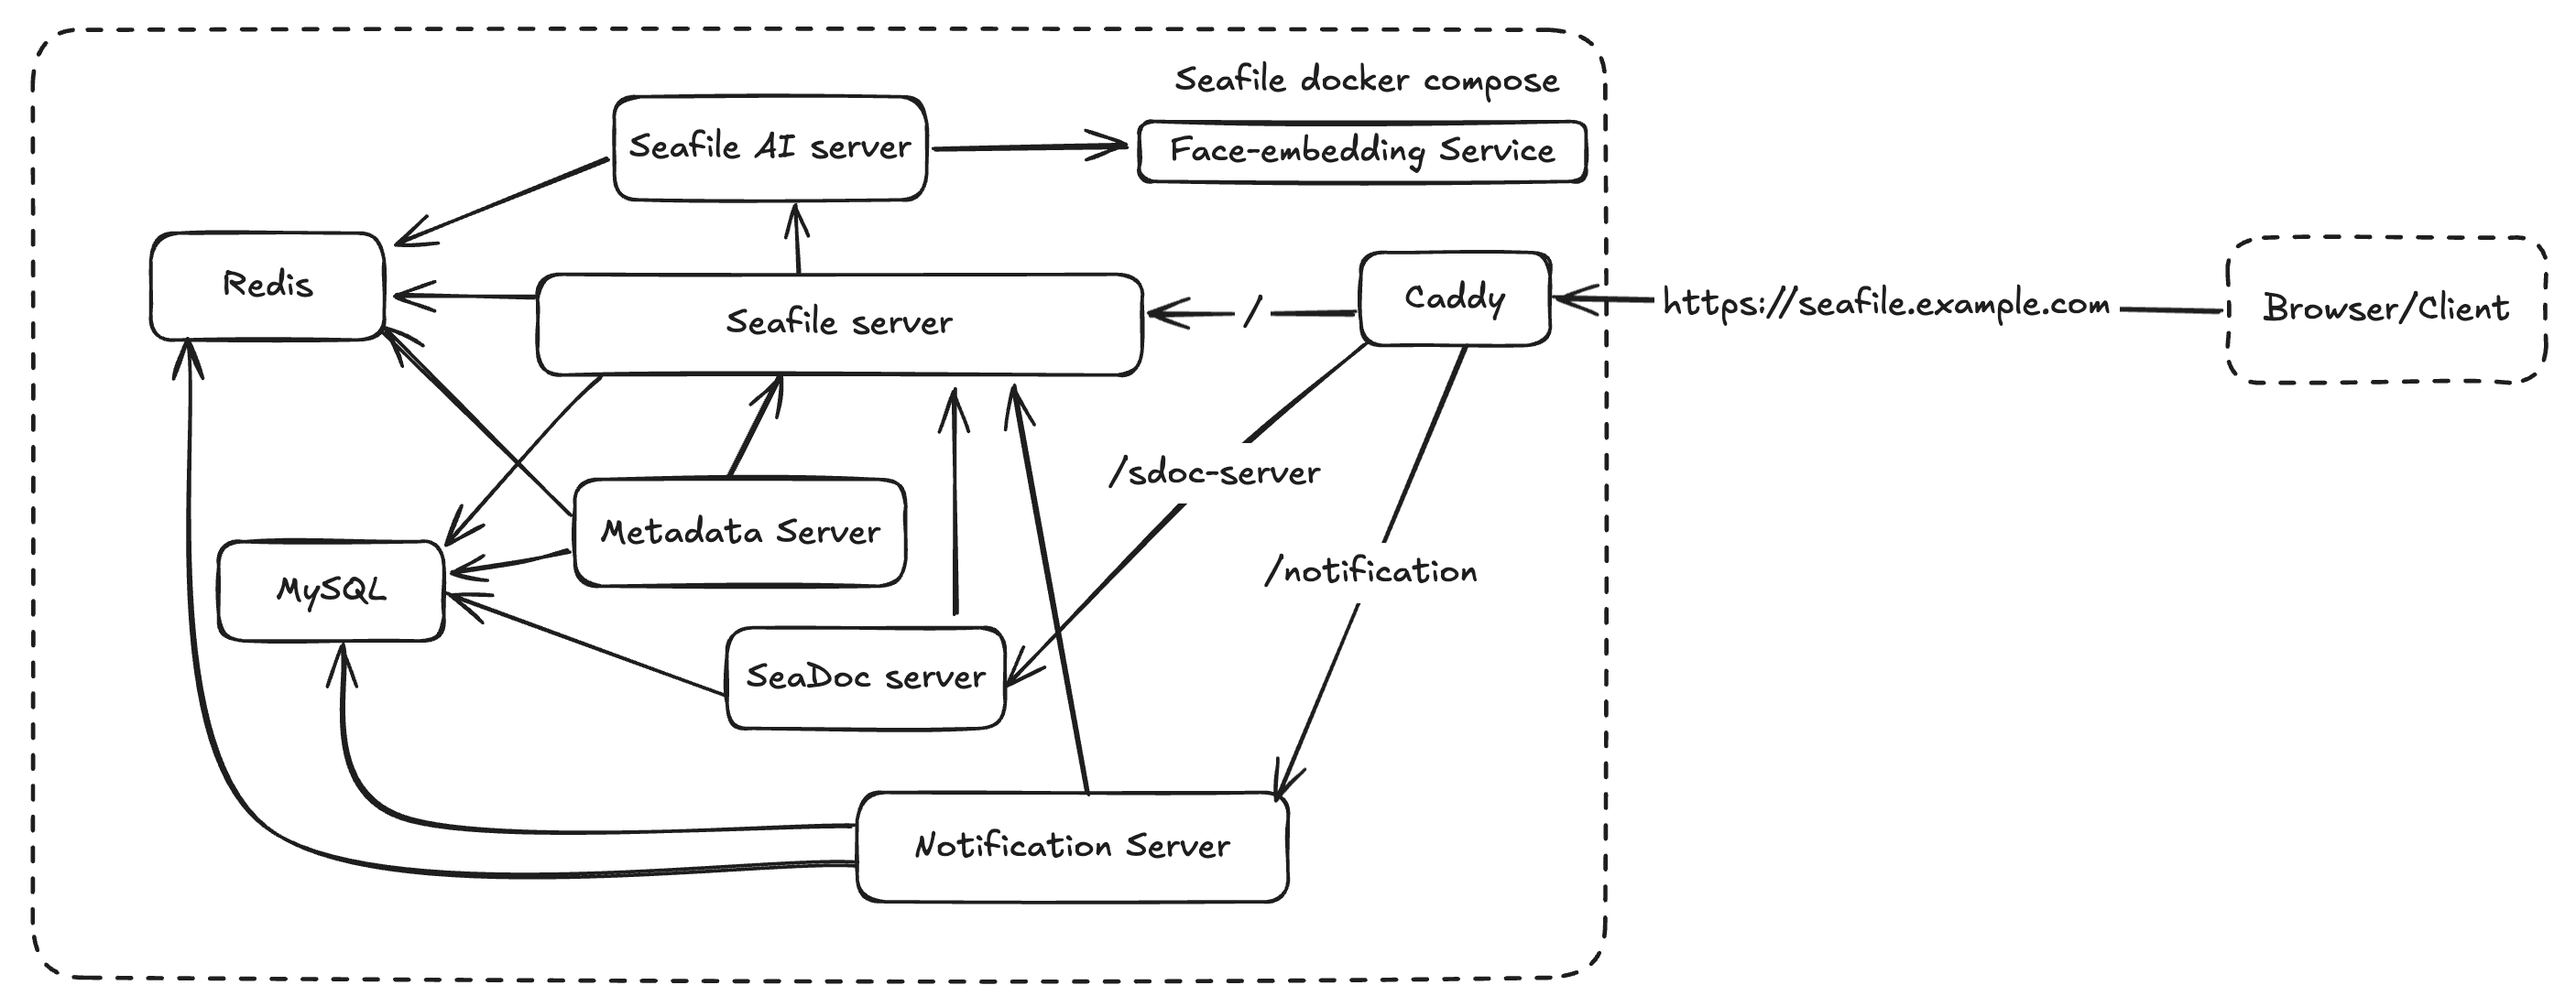
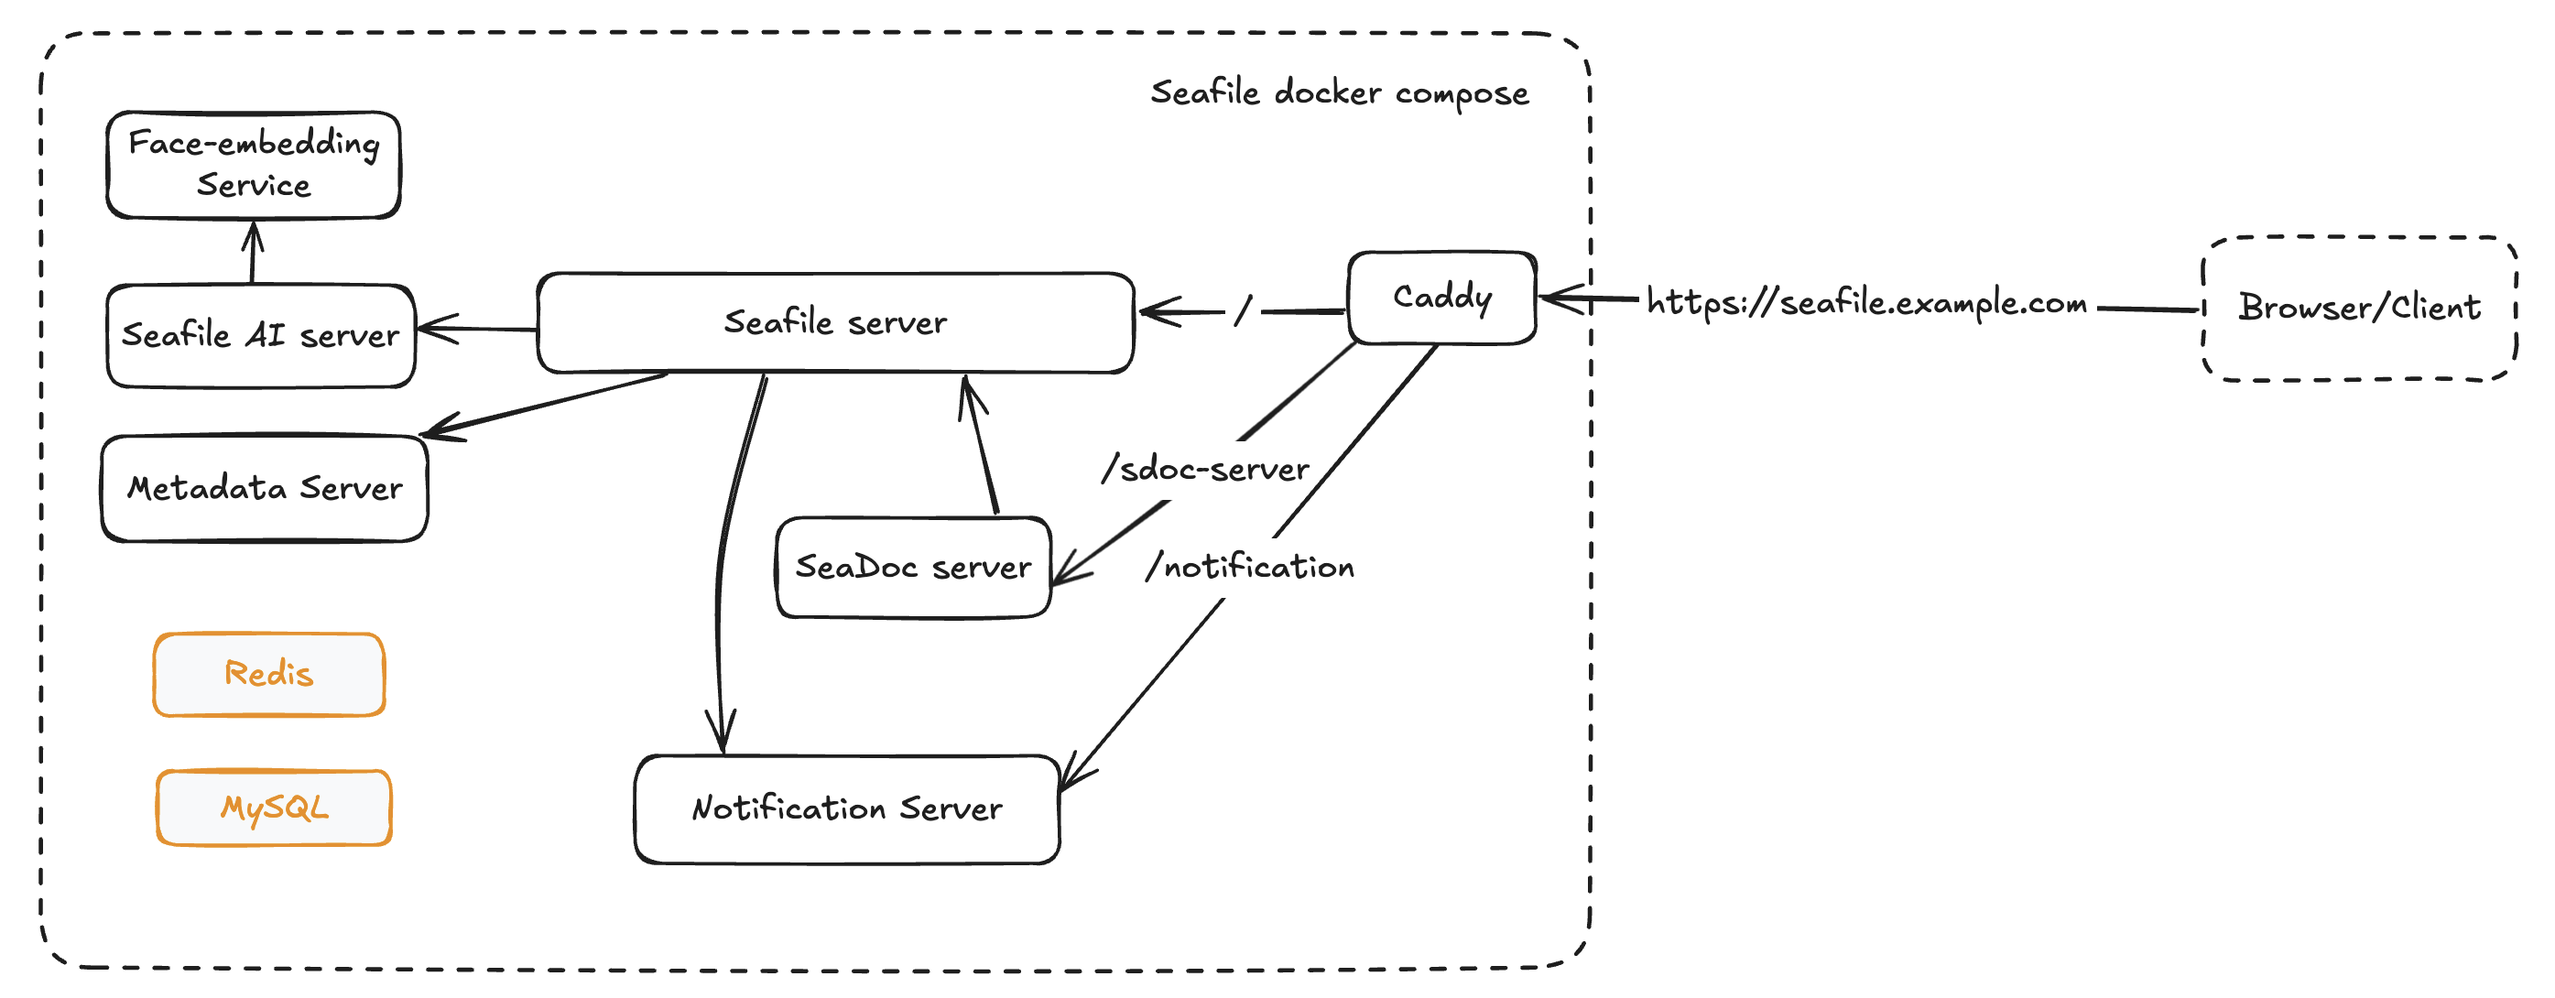
update docker structure image & descriptions

diff --git a/manual/setup/overview.md b/manual/setup/overview.md
@@ -3,10 +3,15 @@
 Seafile docker based installation consist of the following components (docker images):
 
 - Seafile server: Seafile core services, see [Seafile Components](../introduction/components.md) for the details.
-- Sdoc server: SeaDoc server, provide a lightweight online collaborative document editor, see [SeaDoc](../extension/setup_seadoc.md#architecture) for the details.
-- Database: Stores data related to Seafile and SeaDoc.
+- MySQL: Database stores data related to Seafile and SeaDoc.
 - Redis: Cache server.
-- Caddy: Caddy server enables user to access the Seafile service (i.e., Seafile server and Sdoc server) externally and handles `SSL` configuration
+- Caddy: Caddy server enables user to access the Seafile service (i.e., Seafile server and Sdoc server) externally and handles `SSL` configuration.
+- Seafile optional extension:
+    - [SeaDoc Server](../extension/setup_seadoc.md#architecture): SeaDoc server, provide a lightweight online collaborative document editor,.
+    - [Notification Server](../extension/notification-server.md): Notify clients of updates to the repository status.
+    - [Metadata Server](../extension/metadata-server.md): Provide metadata management for your libraries.
+    - [Seafile AI & face embedding](../extension/seafile-ai.md): Users can enable Seafile AI to support features such as file tags, file and image summaries, text translation, sdoc writing assistance, generating image tags (including objects, weather, color, etc.), face detection and encoding in images, and text detection in images (OCR).
+
 
 ![Seafile Docker Structure](../images/docker-structure.png)
 
